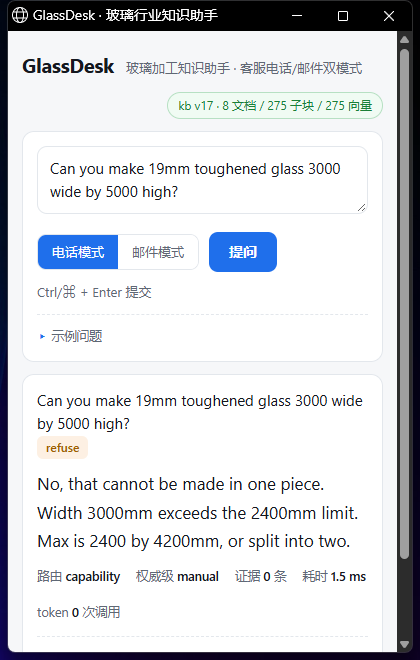
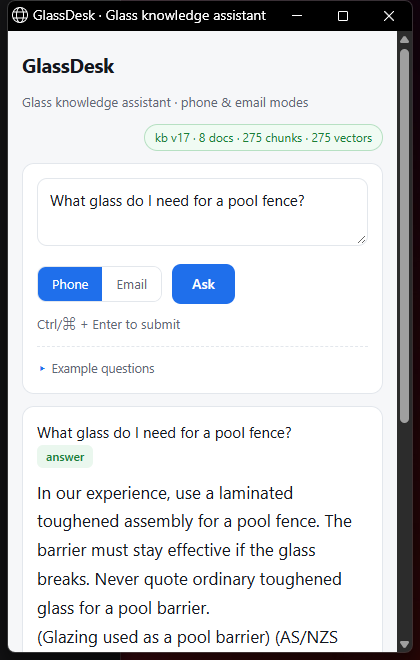
feat(ui): 界面与接口提示全部改为英文
需求：界面上不要中文。

改动范围：
- 页面：标题、副标题、模式按钮（Phone/Email）、Ask、提交提示、
  示例问题、健康状态、元信息标签（Route/Authority/Evidence/Latency/Tokens）、
  Sources、Raw response、加载与错误提示
- 接口可见文案：路由原因、校验原因（missing ... must ask back）、
  HTTP 错误 detail（question must not be empty、page file missing）
- 生成层 notes：模型判定资料不足、未按格式输出、截断提示等

保持不变：代码注释、docstring、docs/ 下的中文文档与提交信息（这些不是界面）。

验证：
- index.html 已无任何 CJK 字符
- 实机：标题 'GlassDesk · Glass knowledge assistant'，
  need_slot 返回 'What thickness, width and height do you need?'，
  notes 为 'size question without numbers; must ask back'，
  空问题 detail 为 'question must not be empty'
- pytest 210 passed（2 条断言中文备注的测试同步改为英文）

diff --git a/src/glassdesk/api/static/index.html b/src/glassdesk/api/static/index.html
@@ -3,7 +3,7 @@
 <head>
 <meta charset="utf-8">
 <meta name="viewport" content="width=device-width, initial-scale=1">
-<title>GlassDesk · 玻璃行业知识助手</title>
+<title>GlassDesk · Glass knowledge assistant</title>
 <style>
   :root{
     --bg:#f6f7f9; --card:#fff; --ink:#14181f; --muted:#5f6875; --line:#e3e7ec;
@@ -77,22 +77,22 @@
 <div class="wrap">
   <header>
     <h1>GlassDesk</h1>
-    <span class="sub">玻璃加工知识助手 · 客服电话/邮件双模式</span>
-    <span class="pill" id="health">连接中…</span>
+    <span class="sub">Glass knowledge assistant · phone &amp; email modes</span>
+    <span class="pill" id="health">Connecting…</span>
   </header>
 
   <div class="card">
     <textarea id="q" placeholder="Ask something, e.g. What glass do I need for a pool fence?"></textarea>
     <div class="row">
       <div class="seg" id="mode">
-        <button data-v="phone" aria-pressed="true">电话模式</button>
-        <button data-v="email" aria-pressed="false">邮件模式</button>
+        <button data-v="phone" aria-pressed="true">Phone</button>
+        <button data-v="email" aria-pressed="false">Email</button>
       </div>
-      <button class="btn" id="ask">提问</button>
-      <span class="sub" id="hint">Ctrl/⌘ + Enter 提交</span>
+      <button class="btn" id="ask">Ask</button>
+      <span class="sub" id="hint">Ctrl/⌘ + Enter to submit</span>
     </div>
     <details class="ex">
-      <summary>示例问题</summary>
+      <summary>Example questions</summary>
       <div class="chips" id="examples"></div>
     </details>
   </div>
@@ -117,12 +117,12 @@ fetch("/api/health").then(r => r.json()).then(h => {
   const el = $("#health");
   if (h.ok){
     el.className = "pill ok";
-    el.textContent = `kb v${h.kb_version ?? "?"} · ${h.documents} 文档 / ${h.chunks} 子块 / ${h.vectors} 向量`;
+    el.textContent = `kb v${h.kb_version ?? "?"} · ${h.documents} docs · ${h.chunks} chunks · ${h.vectors} vectors`;
   } else {
     el.className = "pill bad";
-    el.textContent = "资源异常";
+    el.textContent = "Resources unavailable";
   }
-}).catch(() => { $("#health").className = "pill bad"; $("#health").textContent = "接口不可达"; });
+}).catch(() => { $("#health").className = "pill bad"; $("#health").textContent = "API unreachable"; });
 
 fetch("/api/examples").then(r => r.json()).then(d => {
   d.examples.forEach(text => {
@@ -146,15 +146,15 @@ function render(r, prev){
     <div class="q">${escapeHtml(r.question)}</div>
     <div>${badge(r.status)}</div>
     <div class="answer ${r.mode}">${escapeHtml(r.answer)}</div>
-    ${r.citations?.length ? `<div class="cite">出处 ${r.citations.map(c => `<code>${escapeHtml(c)}</code>`).join("")}</div>` : ""}
+    ${r.citations?.length ? `<div class="cite">Sources ${r.citations.map(c => `<code>${escapeHtml(c)}</code>`).join("")}</div>` : ""}
     <div class="meta">
-      <span>路由 <b>${r.route}</b></span>
-      <span>权威级 <b>${r.authority ?? "—"}</b></span>
-      <span>证据 <b>${r.evidence}</b> 条</span>
-      <span>耗时 <b>${t.total_ms ?? 0} ms</b></span>
-      <span>token <b>${r.tokens?.calls ?? 0}</b> 次调用${r.tokens?.cache_hits ? ` / ${r.tokens.cache_hits} 次缓存` : ""}</span>
+      <span>Route <b>${r.route}</b></span>
+      <span>Authority <b>${r.authority ?? "—"}</b></span>
+      <span>Evidence <b>${r.evidence}</b> sources</span>
+      <span>Latency <b>${t.total_ms ?? 0} ms</b></span>
+      <span>Tokens <b>${r.tokens?.calls ?? 0}</b> calls${r.tokens?.cache_hits ? ` / ${r.tokens.cache_hits} cached` : ""}</span>
     </div>
-    <details><summary>原始响应</summary><pre>${escapeHtml(JSON.stringify(r, null, 2))}</pre></details>
+    <details><summary>Raw response</summary><pre>${escapeHtml(JSON.stringify(r, null, 2))}</pre></details>
   `;
   return wrap;
 }
@@ -168,7 +168,7 @@ async function ask(){
   const question = $("#q").value.trim();
   if (!question) return;
   const btn = $("#ask");
-  btn.disabled = true; btn.textContent = "查询中…";
+  btn.disabled = true; btn.textContent = "Thinking…";
   const out = $("#out");
   out.querySelectorAll(".card").forEach(c => c.classList.add("hist"));
 
@@ -182,7 +182,7 @@ async function ask(){
       const t = await res.text();
       const box = document.createElement("div");
       box.className = "card err";
-      box.textContent = `请求失败 (${res.status})：${t.slice(0, 300)}`;
+      box.textContent = `Request failed (${res.status}): ${t.slice(0, 300)}`;
       out.prepend(box);
       return;
     }
@@ -192,16 +192,16 @@ async function ask(){
   } catch (e){
     const box = document.createElement("div");
     box.className = "card err";
-    box.textContent = "网络错误：" + e;
+    box.textContent = "Network error: " + e;
     out.prepend(box);
   } finally {
-    btn.disabled = false; btn.textContent = "提问";
+    btn.disabled = false; btn.textContent = "Ask";
   }
 }
 
 $("#ask").onclick = ask;
 
-// 支持 ?q=问题 打开即问，方便演示和分享链接
+// ?q=<question> asks immediately — handy for demos and share links
 const preset = new URLSearchParams(location.search).get("q");
 if (preset) { $("#q").value = preset; ask(); }
 $("#q").addEventListener("keydown", e => {

diff --git a/src/glassdesk/answer/generator.py b/src/glassdesk/answer/generator.py
@@ -82,7 +82,7 @@ class AnswerGenerator:
                 status=AnswerState.ESCALATE,
                 mode=mode_enum,
                 text=prompts.insufficient_hint(question),
-                notes=["检索无结果"],
+                notes=["no retrieval results"],
             )
 
         # 2. 调模型
@@ -96,7 +96,7 @@ class AnswerGenerator:
                 mode=mode_enum,
                 text="I cannot reach the knowledge service right now. Please check with engineering.",
                 evidence_count=len(chunks),
-                notes=[f"LLM 失败: {exc}"],
+                notes=[f"LLM failure: {exc}"],
             )
 
         # 3. 解析标记
@@ -111,7 +111,7 @@ class AnswerGenerator:
                 evidence_count=len(chunks),
                 cached=response.cached,
                 usage=_usage(response),
-                notes=["模型判定资料不足"],
+                notes=["model judged sources insufficient"],
             )
 
         if status_marker == "unknown":
@@ -124,7 +124,7 @@ class AnswerGenerator:
                 evidence_count=len(chunks),
                 cached=response.cached,
                 usage=_usage(response),
-                notes=["模型未按格式输出，按资料不足处理"],
+                notes=["model did not follow the output format; treated as insufficient"],
             )
 
         # 4. 代码侧格式校验：模型不一定听话
@@ -140,7 +140,7 @@ class AnswerGenerator:
             # 证据里只要有经验来源，就不能让经验性说法冒充规范。
             # 只对"全是经验"加前缀不够——混合证据里那些经验性句子照样会漏出去。
             body = f"In our experience, {body[0].lower() + body[1:] if body else body}"
-            notes.append("证据含 experience 来源，已加经验话术前缀")
+            notes.append("evidence includes experience sources; hedge prefix added")
 
         # 6. 出处由代码拼，且**按权威级别排序**，不是按相关度。
         #    实测踩过：池围栏问题里工单排第一，直接取 top1 会把出处引成工单，
@@ -185,19 +185,19 @@ def _enforce_phone(text: str) -> tuple[str, list[str]]:
     """把文本压成符合电话模式的形态，返回 (新文本, 违规说明)。"""
     violations: list[str] = []
     if any(token in text for token in _FORBIDDEN):
-        violations.append("模型输出了表格/列表，已清理")
+        violations.append("model emitted table/list markup; cleaned")
 
     sentences = [s.strip() for s in re.split(r"(?<=[.!?])\s+", text) if s.strip()]
     if len(sentences) > PHONE_MAX_LINES:
         sentences = sentences[:PHONE_MAX_LINES]
-        violations.append(f"句子超过 {PHONE_MAX_LINES} 句，已截断")
+        violations.append(f"more than {PHONE_MAX_LINES} sentences; truncated")
 
     out: list[str] = []
     for sentence in sentences:
         if len(sentence) > PHONE_MAX_SENTENCE:
             sentence = sentence[: PHONE_MAX_SENTENCE - 1].rstrip() + "…"
-            if "有句子超过 60 字符，已截断" not in violations:
-                violations.append("有句子超过 60 字符，已截断")
+            if "sentence over 60 chars; truncated" not in violations:
+                violations.append("sentence over 60 chars; truncated")
         out.append(sentence)
     return " ".join(out), violations
 

diff --git a/src/glassdesk/routing/router.py b/src/glassdesk/routing/router.py
@@ -87,11 +87,11 @@ def decide(question: str) -> Route:
         if asking_capability and _matches(question, SIZE_HINTS):
             return Route(
                 "ask",
-                "问到了尺寸但没给数字，必须追问",
+                "size question without numbers; must ask back",
                 extracted,
                 ["thickness_mm", "width_mm", "height_mm"],
             )
-        return Route("documents", "没有抽到尺寸参数", extracted)
+        return Route("documents", "no size parameters found", extracted)
 
     lowered = question.lower()
     wants_price = _matches(lowered, PRICE_HINTS)
@@ -101,21 +101,21 @@ def decide(question: str) -> Route:
         need = ("thickness_mm",)
         validation = S.validate(extracted, need=need)
         if validation.can_query:
-            return Route("price", "有厚度，可查报价", extracted)
+            return Route("price", "thickness present; price lookup", extracted)
         return Route("ask", validation.reason, extracted, validation.missing)
 
     if wants_time:
         need = ("thickness_mm",)
         validation = S.validate(extracted, need=need)
         if validation.can_query:
-            return Route("leadtime", "有厚度，可查交期", extracted)
+            return Route("leadtime", "thickness present; lead time lookup", extracted)
         return Route("ask", validation.reason, extracted, validation.missing)
 
     # 默认按"能不能做"处理，需要宽高
     need = ("thickness_mm", "width_mm", "height_mm")
     validation = S.validate(extracted, need=need)
     if validation.can_query:
-        return Route("capability", "尺寸齐全，可查能力矩阵", extracted)
+        return Route("capability", "dimensions complete; capability lookup", extracted)
     if validation.status == "bad_value":
         return Route("unsupported", validation.reason, extracted)
     return Route("ask", validation.reason, extracted, validation.missing)

diff --git a/src/glassdesk/api/app.py b/src/glassdesk/api/app.py
@@ -157,7 +157,7 @@ def create_app(ask_fn=None, health_fn=None) -> FastAPI:
     async def index() -> FileResponse:
         page = STATIC_DIR / "index.html"
         if not page.is_file():
-            raise HTTPException(status_code=500, detail="页面文件缺失")
+            raise HTTPException(status_code=500, detail="page file missing")
         return FileResponse(page)
 
     @app.get("/api/examples")
@@ -174,7 +174,7 @@ def create_app(ask_fn=None, health_fn=None) -> FastAPI:
     async def ask(payload: AskRequest) -> AskResponse:
         question = payload.question.strip()
         if not question:
-            raise HTTPException(status_code=422, detail="问题不能为空")
+            raise HTTPException(status_code=422, detail="question must not be empty")
         try:
             return app.state.ask(question, payload.mode, payload.use_cache)
         except Exception as exc:  # noqa: BLE001

diff --git a/tests/test_generator.py b/tests/test_generator.py
@@ -138,7 +138,7 @@ def test_phone_mode_truncates_extra_sentences(settings):
     result = g.generate("q", [chunk()], OutputMode.PHONE)
     assert len(result.text.split(".")) - 1 <= PHONE_MAX_LINES
     assert result.status is AnswerState.LOW_CONFIDENCE
-    assert any("截断" in n for n in result.notes)
+    assert any("truncated" in n for n in result.notes)
 
 
 def test_phone_mode_truncates_long_sentence(settings):
@@ -146,7 +146,7 @@ def test_phone_mode_truncates_long_sentence(settings):
     g, _ = gen(settings, f"ANSWER: {long_sentence}")
     result = g.generate("q", [chunk()], OutputMode.PHONE)
     assert len(result.text) <= PHONE_MAX_SENTENCE + 20
-    assert any("60 字符" in n for n in result.notes)
+    assert any("60 chars" in n for n in result.notes)
 
 
 def test_markdown_is_stripped(settings):

diff --git a/src/glassdesk/routing/slots.py b/src/glassdesk/routing/slots.py
@@ -252,12 +252,12 @@ def validate(slots: Slots, *, need: tuple[str, ...] = ("thickness_mm",)) -> Vali
     - 查报价/交期：thickness（+ process 更好，但不强制）
     """
     if slots.is_empty:
-        return Validation("no_slots", reason="没有抽到任何尺寸参数")
+        return Validation("no_slots", reason="no size parameters found")
 
     missing = [f for f in need if getattr(slots, f) is None]
     if missing:
         return Validation("missing", missing=missing,
-                          reason=f"缺少 {', '.join(missing)}，必须追问")
+                          reason=f"missing {', '.join(missing)}; must ask back")
 
     if slots.thickness_mm is not None and slots.process is not None:
         allowed = ALLOWED_THICKNESS.get(slots.process, INT_THICKNESS)
